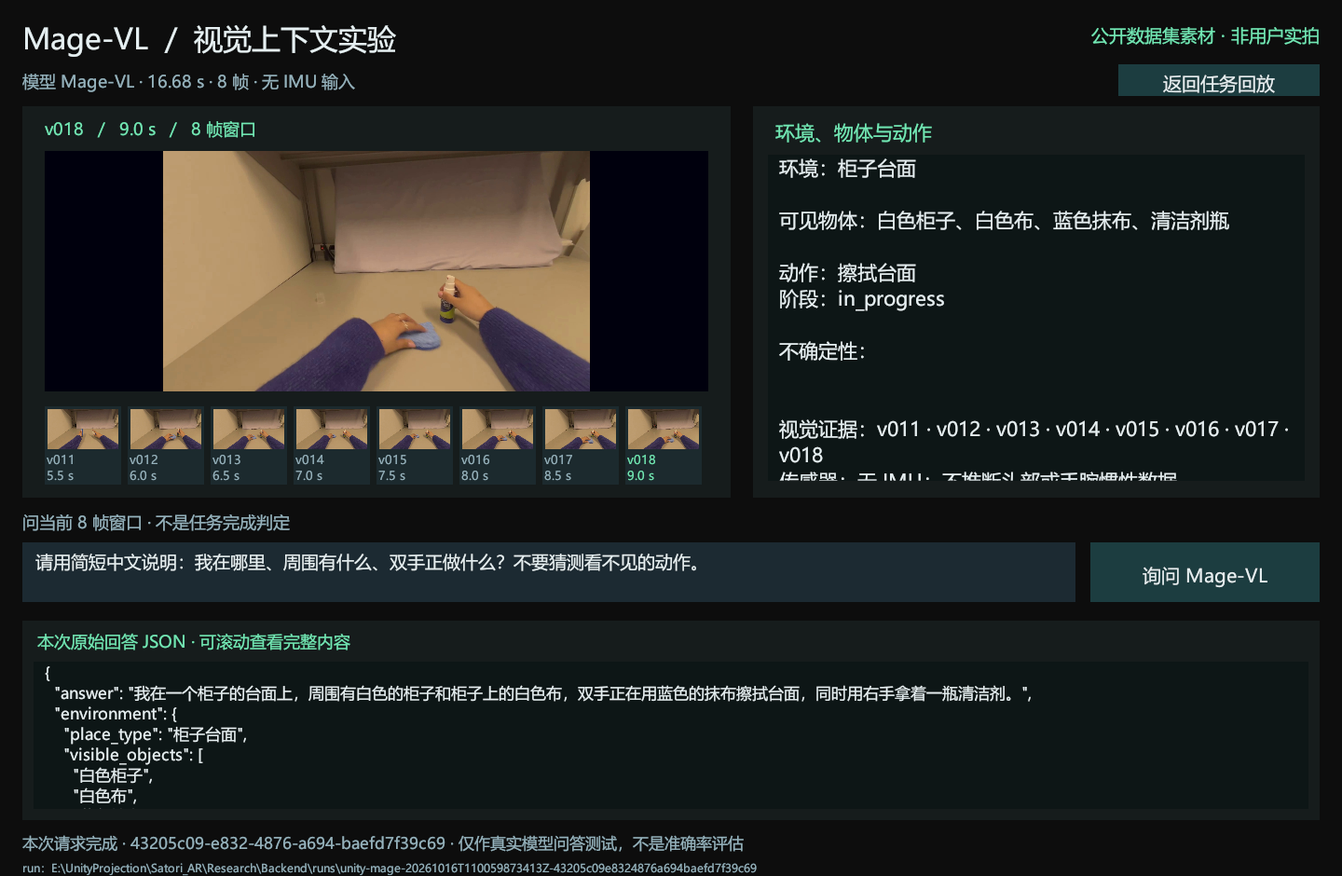
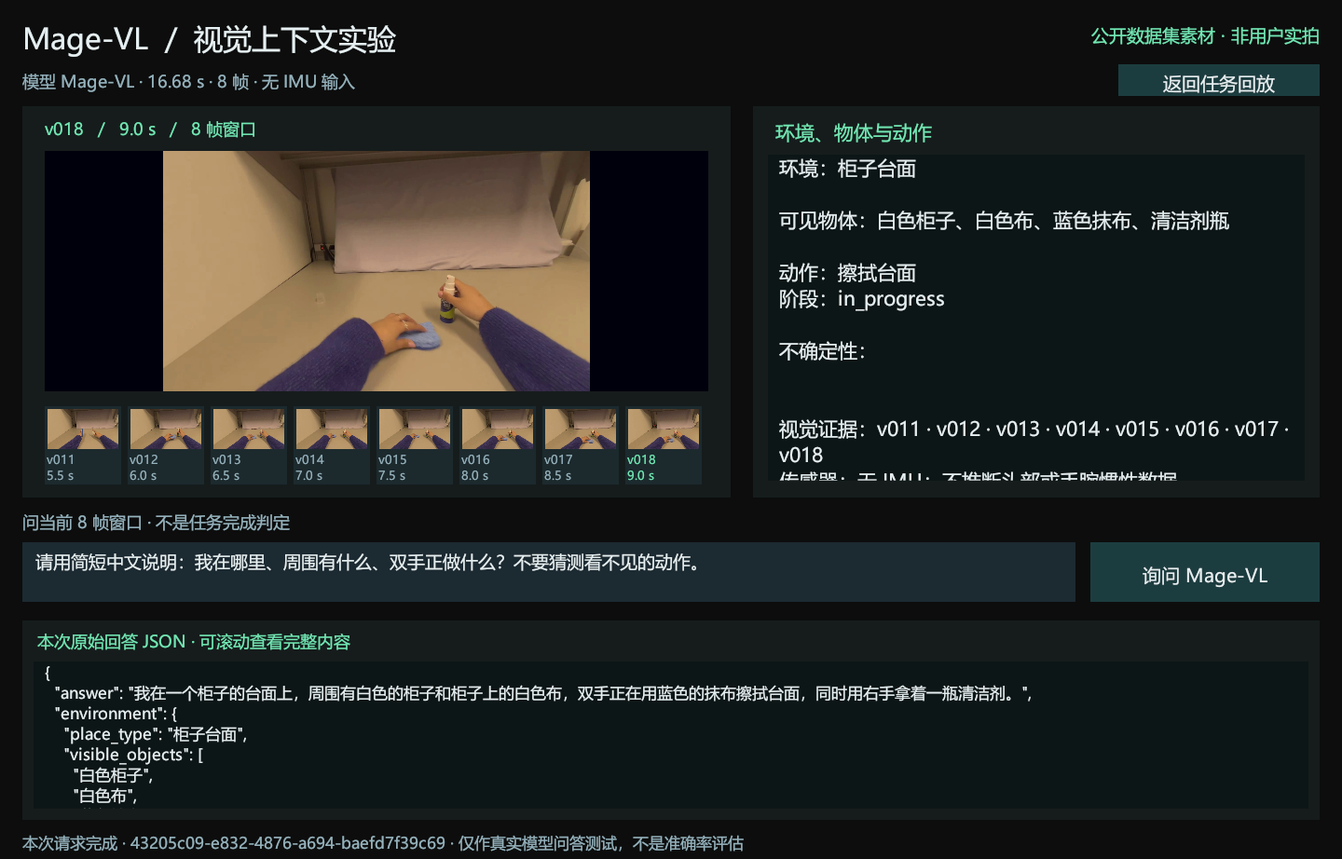
Supplement docs: input frames, QA example, chart and landing page
- docs/README.md: reading order, main findings, terms and limitations.
- experiments.md: which frames each experiment gives the models, one
  EgoTaskQA example, the look-ahead chart, and notes on GPT continuation
  runs and the offline re-parsing of Claude results.
- egotaskqa-semantic-rescore.md: adjudication was done by the main AI
  agent, not by a human; corrected count (7 items moved from wrong to
  partial, 1 kept); agreement reported on real items.
- Crop the local run path from the bottom of the Mage-VL screenshot.

diff --git a/docs/experiments.md b/docs/experiments.md
@@ -1,26 +1,26 @@
 # Satori 复现与模型评测实验简报
 
-日期：2026年10月18日（10月20日补充任务问答语义重评分）
+日期：2026年10月18日（10月20日补充输入说明、问答示例和语义重评分）
 
 本阶段围绕“理解用户所处环境、正在做什么、下一步可能做什么”开展实验。已搭建 Satori 方法原型并接入 Unity，完成七个模型在公开第一视角数据上的对比。当前结果是：**高层任务目标识别效果较好，未来动作预测还有明显下降；任务问答按意思评分最高约37%，涉及多人互动和反事实推理的问题仍然很弱。**
 
 ## 1. 跑了哪些实验
 
-| 实验 | 数据与规模 | 测什么 |
-|---|---|---|
-| 任务目标识别 | GTEA，28个视频、7类目标 | 根据视频观察判断用户在完成什么任务 |
-| 未来动作预测 | GTEA，32个目标事件，分别提前0、1、3秒预测，共96题 | 根据之前的画面判断接下来发生的动作 |
-| 任务相关问答 | EgoTaskQA，200题，涉及189个视频 | 回答关于人物、物体、动作和事件关系的问题 |
-| 环境与动作识别 | Charades-Ego，32段视频，每段8帧 | 识别场景和动作，比较 Mage-VL 与 GPT |
-| Satori 流程演示 | EgoDex清洁短片，6个采样时刻 | 验证环境理解、目标提议、下一步预测、进度检查和指导生成能否串起来 |
+| 实验 | 数据与规模 | 给模型看的画面 | 测什么 |
+|---|---|---|---|
+| 任务目标识别 | GTEA，28个视频、7类目标 | 整段视频均分4段，每段取中间1帧 | 根据视频观察判断用户在完成什么任务 |
+| 未来动作预测 | GTEA，32个目标事件，分别提前0、1、3秒预测，共96题 | 目标动作开始前的4帧，每秒1帧；提前1秒或3秒预测时，4帧整体再往前移1秒或3秒 | 根据之前的画面判断接下来发生的动作 |
+| 任务相关问答 | EgoTaskQA，200题，涉及189个视频 | 整段视频均分4段，每段取中间1帧，另附英文问题 | 回答关于人物、物体、动作和事件关系的问题 |
+| 环境与动作识别 | Charades-Ego，32段视频 | 整段视频均分8段，每段取中间1帧 | 识别场景和动作，比较 Mage-VL 与 GPT |
+| Satori 流程演示 | EgoDex清洁短片，6个采样时刻 | 每个时刻取截至当时最近的1至4帧 | 验证环境理解、目标提议、下一步预测、进度检查和指导生成能否串起来 |
 
-前三项为主实验。每题向模型提供相同的4张原始观察帧及对应问题，使用数据集标准答案评分。每个模型324题，七个模型累计2268个模型—样本结果；其中包含此前已完成的 Mage-VL 和 VideoChat3-4B 结果。
+前三项为主实验，每个模型324题，七个模型累计2268个模型—样本结果，其中包含此前已完成的 Mage-VL 和 VideoChat3-4B 结果。模型看到的是按时间顺序排列、带时间戳的关键帧，**不是连续视频流**：本实验以图片输入调用 GPT 和 Claude，统一使用关键帧后，七个模型收到的图片、时间戳和问题完全相同；VideoChat3 和 Dispider 这类视频模型也接收这同样的4帧（Dispider 把每帧重复4次，填满它的16个输入位置），但各模型内部的预处理和调用方式不同。图片保持原始分辨率，不含音频和 IMU。目标识别从7类厨房任务中选一个（如做咖啡、做奶酪三明治、泡甜茶），动作预测从73种动作中选一个（如 take (bread)、open (honey)），候选表每题相同；问答则用英文短语自由作答。标准答案和视频文件名不进入请求，评分在推理结束后用数据集标准答案进行。
 
-目标识别和动作预测报告准确率；问答报告词法归一化后的答案匹配率，即统一大小写、标点、英文冠词和空白后比较答案。失败和弃答均保留在总题数中。问答另做了一次语义重评分作为补充（见第3节），正式分数仍以词法匹配为准。
+目标识别和动作预测报告准确率。问答的正式分数是**字面匹配率**：统一大小写、标点、英文冠词和空白后，答案须与标准答案完全一致。接口失败、输出格式不合要求和弃答（模型按要求返回空答案，表示证据不足）都计入总题数、按错误计。问答另做了一次语义重评分作为补充（见第3节），正式分数仍以字面匹配为准。
 
 ## 2. 七模型主实验结果
 
-| 模型 | 目标识别，28题 | 动作预测，96题 | 任务问答，200题 |
+| 模型 | 目标识别，28题 | 动作预测，96题 | 任务问答，200题（字面匹配） |
 |---|---:|---:|---:|
 | Claude Opus 5.5 | **89.29%（25/28）** | 55.21%（53/96） | **22.50%（45/200）** |
 | GPT-6-astra | 67.86%（19/28） | **60.42%（58/96）** | 19.50%（39/200） |
@@ -32,7 +32,7 @@
 
 *GPT-5.6-sol动作预测中有53次调用失败，问答200题全部接口失败，其低分不能直接解释为模型能力弱。Dispider的输出未满足本轮评分格式要求，不能解释为视觉能力为零。Mage-VL和VideoChat3-4B也受到接口或输出格式问题影响。*
 
-模型名称按简称展示。实际主实验中 Claude 使用 high，GPT 未显式指定推理档位；因此这里比较的是各模型在当前接入配置下的表现，未完全控制内部推理预算。
+模型名称按简称展示。实际主实验中 Claude 使用 high，GPT 未显式指定推理档位；因此这里比较的是各模型在当前接入配置下的表现，未完全控制内部推理预算。GPT 名称沿用第三方接口的路由别名，底层权重未独立核验。部分 GPT 结果因限流分批续跑，只补跑从未尝试过的题目，已尝试的结果原样保留。Claude 的原始采集脚本曾把309个合法回答误判为失败，表中 Claude 结果是按原始返回事件离线重新解析得到的，没有重新调用模型。
 
 ## 3. 效果说明
 
@@ -46,9 +46,21 @@
 | GPT-6-astra | 29/32 | 18/32 | 11/32 |
 | GPT-6.1-sol | 26/32 | 15/32 | 11/32 |
 
+![三个API模型的动作预测准确率随前瞻时间下降](images/forecast-horizon.png)
+
 0秒条件的最后观察帧也早于目标动作起点。结果表明，判断紧接当前观察的动作相对容易，提前更久判断用户意图仍有困难。
 
-**任务问答按字面评分明显偏低，真正的短板在多人互动和反事实推理。** 按字面匹配，最高分为Claude的22.50%，而所有题固定回答“no”的简单基线就有18%；Claude在68道是非题中答对43题，在132道查询题中仅答对2题。逐题检查发现，查询题的标准答案使用数据集内部标签词，例如 `bottle-water`、`watermelon1`、`poweredness`、`Turn off TV with remote`，模型回答“water bottle”“turned off the TV using the remote control”这类意思正确的答案也被判错。为此补充了一次语义重评分：
+**任务问答按字面评分明显偏低，真正的短板在多人互动和反事实推理。** 按字面匹配，最高分为Claude的22.50%，而所有题固定回答“no”的简单基线就有18%；Claude在68道是非题中答对43题，在132道查询题中仅答对2题。逐题检查发现，查询题的标准答案使用数据集内部标签词，例如 `bottle-water`、`watermelon1`、`poweredness`，意思正确的自由作答也会被判错。下面是一道真实题目（引自 EgoTaskQA 公开数据）：
+
+| 项目 | 内容 |
+|---|---|
+| 画面 | 4张客厅关键帧：前3帧电视开着，第3帧画面下方能看到一只手，第4帧电视已关 |
+| 问题 | How did the person changed the poweredness of the last object that has status change in the video?（这个人是怎么改变视频中最后一个发生状态变化的物体的通电状态的？） |
+| 标准答案 | `Turn off TV with remote` |
+| Claude 回答 | `turned off the TV using the remote control` |
+| 判分 | 字面匹配判错；语义重评分判为等价 |
+
+为此补充了一次语义重评分：
 
 | 模型 | 字面匹配 | 语义等价 | 含部分正确 |
 |---|---:|---:|---:|
@@ -60,7 +72,7 @@
 
 提升全部来自查询题，例如Claude从2/132升到30/132；是非题不受影响。按意思评分后，数据集归为多人互动类的13道题（多数问“另一个人在做什么”），三个API模型仍全部答错；40道反事实题中，Claude也只从11题升到12题。这两类才是当前真正的短板。四帧观察可能缺少关键证据，但还不能把低分全部归因于帧数。
 
-语义重评分由三个独立的Claude Haiku 5.5判分代理盲评（看不到模型名称），只比较答案文字的含义、不看视频，按多数票定标签。三票完全一致的占93%（Fleiss κ 0.86），40个故意配错的对照答案无一被判为正确；之后又做了正反两向的复核和人工裁决。这是看到结果后追加的补充分析，没有人工双人标注，也不能与原论文按固定答案词表分类的分数直接比较。
+语义重评分由三个独立的Claude Haiku 5.5判分代理盲评（看不到模型名称），只比较答案文字的含义、不看视频，按多数票定标签。真实答案中三票完全一致的占92%（Fleiss κ 0.86），40个故意配错的对照答案无一被判为正确；之后又做了正反两向的复核，复核分歧、标签不一致和抽查发现的13项由主控 AI（主会话中的 Claude Opus 5.5，不是人工）按细则裁决。这是看到结果后追加的补充分析，全程没有人工标注，也不能与原论文按固定答案词表分类的分数直接比较。
 
 **当前本地模型配置整体落后于表现较好的API模型。** Mage-VL和VideoChat3-4B的动作预测、任务问答分数较低。除了理解能力，输入适配和结构化输出稳定性也需要改进；Dispider本次尚未形成可用的评分输出。
 

diff --git a/docs/egotaskqa-semantic-rescore.md b/docs/egotaskqa-semantic-rescore.md
@@ -1,21 +1,21 @@
 # EgoTaskQA 任务问答语义重评分
 
-日期：2026年10月20日。这是对七模型主实验中 EgoTaskQA 200 题的补充分析，**正式分数仍是词法匹配分**。没有重新调用被评测模型，也没有改动原始回答、标准答案或已有分数。
+日期：2026年10月20日。这是对七模型主实验中 EgoTaskQA 200 题的补充分析，**正式分数仍是字面匹配分**。没有重新调用被评测模型，也没有改动原始回答、标准答案或已有分数。
 
 ## 为什么要补这一项
 
-EgoTaskQA 的查询题标准答案使用数据集内部的标签词：对象带实例编号或连字符（`watermelon1`、`bottle-water`、`juicer-lid`），属性用专门名称（`poweredness`、`openess`、`wateredness`），动作写成固定格式（`Turn off TV with remote`、`Put bowl to microwave`）。主实验要求模型用简短英文自由作答，再按词法归一化后逐字比较，因此“water bottle”“turned off the TV using the remote control”这类意思正确的答案也会被判错。原论文的做法是从固定答案词表中分类，与本实验的自由作答设置不同。
+EgoTaskQA 的查询题标准答案使用数据集内部的标签词：对象带实例编号或连字符（`watermelon1`、`bottle-water`、`juicer-lid`），属性用专门名称（`poweredness`、`openess`、`wateredness`），动作写成固定格式（`Turn off TV with remote`、`Put bowl to microwave`）。主实验要求模型用简短英文自由作答，再统一大小写、标点、英文冠词和空白后逐字比较（字面匹配），因此“water bottle”“turned off the TV using the remote control”这类意思正确的答案也会被判错。原论文的做法是从固定答案词表中分类，与本实验的自由作答设置不同。
 
 ## 方法
 
 1. **确定需要判断的答案。** 五个有合格答案的模型共1000个“模型—题目”结果：
-   - 字面已判对、接口或格式失败、合法弃答，三类沿用原结果。
+   - 字面已判对、接口或格式失败、弃答（模型按要求返回空答案），三类沿用原结果。
    - 标准答案为 yes/no 且模型也只回答了相反的 yes/no 的，直接判错。
    - 其余485个答案按“题目＋归一化答案”去重为393项，交给语义判分。
 2. **盲化判分。** 判分代理只看到问题、标准答案和候选答案，看不到模型名称，也不看视频；只判断两个答案的含义是否相同，不判断答案在画面上是否成立。
 3. **三票独立判分。** 三个独立的 Claude Haiku 5.5 判分副本，各自使用不同的题目顺序和分批，每项给出 equivalent（语义等价）、partial（部分正确）或 wrong（错误），取多数票。
 4. **阴性对照。** 混入40个故意配错的答案：把另一道同语义类型题目的真实模型答案配给当前题目，预期全部判错。
-5. **对抗复核。** 怀疑者复核全部82个判对或部分对的项，专门找过宽的判定；辩护者复核全部311个判错项，专门找过严的判定。有分歧的项和同一标准答案下标签不一致的项，按细则人工裁决，并且“拿不准时取较不利的标签”。另外随机抽查40个判错项。
+5. **对抗复核。** 怀疑者复核全部82个判对或部分对的项，专门找过宽的判定；辩护者复核全部311个判错项，专门找过严的判定。有分歧的项和同一标准答案下标签不一致的项，由主控 AI（主会话中的 Claude Opus 5.5，不是人工）按细则裁决，并且“拿不准时取较不利的标签”。主控另外随机抽查40个判错项。
 6. **独立复算。** 用另一段代码，从原始回答和原始投票重新计算全部分数，结果一致。
 
 判分细则、判分项和分批在判分开始前冻结。
@@ -34,7 +34,7 @@ GPT-5.6-sol（200题全部接口失败）和 Dispider（没有合格输出）没
 
 **提升全部来自查询题。** 132道查询题中，Claude 从2题升到30题，GPT-6-astra 从3题升到23题，GPT-6.1-sol 从3题升到21题；68道是非题的结果不变。
 
-**按题目类型拆分**（三个数字依次为：字面匹配 / 语义等价 / 题数）：
+**按题目类型拆分**（三个数字依次为：字面匹配 / 语义等价 / 题数。类型取自数据集标注：多人互动、意图是题目范围，反事实、解释是推理类型。多人互动只计单独标为多人互动的13题，另有30题同时标为环境与多人互动；反事实只计单独标为反事实的40题，不含同时标为预测的8题）：
 
 | 题目类型 | Claude Opus 5.5 | GPT-6-astra | GPT-6.1-sol |
 |---|---|---|---|
@@ -49,16 +49,16 @@ GPT-5.6-sol（200题全部接口失败）和 Dispider（没有合格输出）没
 
 | 检查 | 结果 |
 |---|---|
-| 三票完全一致 | 93.1%，Fleiss κ = 0.858；393项都有多数票 |
+| 三票完全一致 | 393个真实项中92.4%，Fleiss κ = 0.855（连同40个对照共433项时为93.1%，κ = 0.858）；393项都有多数票 |
 | 40个阴性对照 | 多数票0个判对或部分对；单票也没有 |
 | 对抗复核分歧 | 393项中7项 |
-| 人工裁决 | 13项：4项从语义等价降为部分正确，1项从部分正确降为错误，8项从错误升为部分正确（后者只影响“含部分正确”一列） |
-| 判错项随机抽查 | 40项中38项确认错误，2项改为部分正确 |
+| 主控 AI 裁决 | 13项：4项从语义等价降为部分正确，1项从部分正确降为错误，7项从错误升为部分正确（只影响“含部分正确”一列），另有1项复核后维持部分正确 |
+| 主控随机抽查判错项 | 40项中38项确认错误，2项改为部分正确 |
 
 ## 局限
 
 - 这是看到结果后追加的补充分析，细则中的对象和属性同义词示例有一部分来自对已有答案的阅读。
-- 判分模型只比较文字，不看视频；没有人工双人标注。
+- 判分、复核和裁决都由 AI 完成，只比较文字、不看视频；全程没有人工标注。
 - 阴性对照多为明显不相关的答案，比真实的近似错误更容易识别，假阳性率可能被低估。
 - “部分正确”的边界有主观性，所以主结论使用“语义等价”一列。
 - 输入仍是每题4张稀疏帧；本结果不能与原论文按答案词表分类的准确率直接比较。

diff --git a/README.md b/README.md
@@ -2,7 +2,7 @@
 
 基于 Satori 思路的第一视角环境与任务理解研究原型，包含 **Unity 回放客户端、Python 方法后端、公开数据评测工具**。
 
-当前已实现多帧观察、目标提议、下一步预测、进度检查、文字指导与缓存。工程正在向 Rokid 场景推进，尚未完成眼镜实时相机、语音和 IMU 接入，也尚未验证完整任务交互效果。
+当前已实现多帧观察、目标提议、下一步预测、进度检查、文字指导与缓存。工程正在向 Rokid 场景推进；本仓库尚未包含眼镜实时相机、语音和 IMU 接入，也尚未验证完整任务交互效果。
 
 ## Unity 运行界面
 
@@ -28,17 +28,17 @@
 
 | 实验 | 数据与规模 | 输入 | 评价内容 |
 |---|---|---|---|
-| 任务目标识别 | GTEA，28个视频、7类目标 | 每个完整视频取4帧 | 用户在完成什么任务，Top-1准确率 |
-| 未来动作预测 | GTEA，32个目标事件，0/1/3秒前瞻，共96题 | 每题4帧，最后观察早于目标动作起点 | 接下来发生什么动作，Top-1准确率 |
-| 任务相关问答 | EgoTaskQA，200题、189个视频 | 每题4帧和原始问题 | 人物、物体、动作与关系，答案词法匹配率（另补充语义重评分） |
-| 环境与动作识别 | Charades-Ego，32段视频 | 每段8帧 | 场景识别与动作micro-F1 |
-| Satori流程演示 | EgoDex清洁短片，6个采样时刻 | 1至4帧的历史窗口 | 环境理解、目标提议、预测、进度检查与指导生成 |
+| 任务目标识别 | GTEA，28个视频、7类目标 | 整段视频均分4段，每段取中间1帧 | 用户在完成什么任务，Top-1准确率 |
+| 未来动作预测 | GTEA，32个目标事件，0/1/3秒前瞻，共96题 | 目标动作开始前的4帧，每秒1帧，最后一帧早于动作起点 | 接下来发生什么动作，Top-1准确率 |
+| 任务相关问答 | EgoTaskQA，200题、189个视频 | 整段视频均分4段各取中间1帧，加原始问题 | 人物、物体、动作与关系，字面匹配率（另补充语义重评分） |
+| 环境与动作识别 | Charades-Ego，32段视频 | 整段视频均分8段，每段取中间1帧 | 场景识别与动作micro-F1 |
+| Satori流程演示 | EgoDex清洁短片，6个采样时刻 | 每个时刻最近的1至4帧 | 环境理解、目标提议、预测、进度检查与指导生成 |
 
-前三项为七模型主实验：每个模型324题，累计 **2268个模型—样本结果**，包含此前完成的Mage-VL与VideoChat3-4B结果。各模型使用相同的原始观察帧和问题，标准答案不进入模型请求；失败和弃答均保留在固定分母。
+前三项为七模型主实验：每个模型324题，累计 **2268个模型—样本结果**，包含此前完成的Mage-VL与VideoChat3-4B结果。各模型看到相同的关键帧（按时间顺序、带时间戳的静态图片，不是连续视频）和问题，标准答案不进入模型请求；失败和弃答均保留在固定分母。
 
 ### 七模型主实验结果
 
-| 模型 | 目标识别，28题 | 动作预测，96题 | 任务问答，200题 |
+| 模型 | 目标识别，28题 | 动作预测，96题 | 任务问答，200题（字面匹配） |
 |---|---:|---:|---:|
 | Claude Opus 5.5 | **89.29%（25/28）** | 55.21%（53/96） | **22.50%（45/200）** |
 | GPT-6-astra | 67.86%（19/28） | **60.42%（58/96）** | 19.50%（39/200） |
@@ -76,7 +76,7 @@
 | Mage-VL | 2.00%（4/200） | 4.00%（8/200） | 8.00%（16/200） |
 | VideoChat3-4B | 4.00%（8/200） | 6.00%（12/200） | 8.50%（17/200） |
 
-提升全部来自查询题（Claude从2/132升到30/132），是非题不受影响。按意思评分后，数据集归为多人互动类的13道题，三个API模型仍全部答错；40道反事实题中，Claude也只从11题升到12题。判分由三个独立的Claude Haiku 5.5代理盲评，只比较答案文字的含义，不看视频。三票完全一致的占93%（Fleiss κ 0.86），40个故意配错的对照答案无一被判为正确。这是看到结果后追加的补充分析，方法、复核与局限见 **[EgoTaskQA语义重评分](docs/egotaskqa-semantic-rescore.md)**。四帧观察可能缺少关键证据，但当前实验不能将低分全部归因于帧数。
+提升全部来自查询题（Claude从2/132升到30/132），是非题不受影响。按意思评分后，数据集归为多人互动类的13道题，三个API模型仍全部答错；40道反事实题中，Claude也只从11题升到12题。判分由三个独立的Claude Haiku 5.5代理盲评，只比较答案文字的含义，不看视频。真实答案中三票完全一致的占92%（Fleiss κ 0.86），40个故意配错的对照答案无一被判为正确。这是看到结果后追加的补充分析，方法、复核与局限见 **[EgoTaskQA语义重评分](docs/egotaskqa-semantic-rescore.md)**。四帧观察可能缺少关键证据，但当前实验不能将低分全部归因于帧数。
 
 ### Charades-Ego环境与动作识别
 
@@ -168,6 +168,7 @@ uv run python -m satori_repro ask-context --session runs/frames-001/session.json
 | `Tools/deploy` | Mage-VL、VideoChat3、Dispider与CLI适配工具 |
 | `Research/Data/README.md` | 数据准备入口与公开来源 |
 | `Research/Reference/satori-assistance` | 带原MIT许可的任务计划参考文件 |
+| `docs/README.md` | 文档导览：阅读顺序、主要结论、术语与局限 |
 | `docs/experiments.md` | 简版实验报告 |
 | `docs/egotaskqa-semantic-rescore.md` | 任务问答语义重评分的方法、可靠性检查与结果 |
 

diff --git a/docs/README.md b/docs/README.md
@@ -1,0 +1,61 @@
+# 文档导览
+
+本目录说明 Satori-Rokid 截至2026年10月20日的公开实验结果。建议按下表顺序阅读或讲解。
+
+| 顺序 | 内容 | 文件 |
+|---|---|---|
+| 1 | 项目做了什么、主要结论 | 本页 |
+| 2 | 跑了哪些实验、给模型看什么、效果如何 | [实验简报](experiments.md) |
+| 3 | 任务问答为什么补做语义重评分，结果是否可信 | [EgoTaskQA语义重评分](egotaskqa-semantic-rescore.md) |
+| 4 | Unity界面截图、图表与素材来源 | [图片说明](images/README.md) |
+
+## 项目做了什么
+
+Satori（CHI 2025）研究主动式 AR 助手：系统先理解环境和用户正在做什么，再推断用户的目标和下一步，在合适的时机给出指导。论文用 Belief–Desire–Intention（BDI）组织这种用户建模。
+
+本仓库按这一思路做了独立的研究原型：
+
+- **方法后端**：多帧观察 → 环境与行为理解 → 目标提议 → 下一步预测 → 进度检查 → 文字指导与缓存。模型观察到的“完成”与用户确认的“完成”分开记录。
+- **Unity客户端**：回放观察帧、任务状态和指导，另有一个多帧环境问答页面。
+- **评测工具**：在 GTEA、EgoTaskQA、Charades-Ego 等公开第一视角数据上，用相同输入对比多个视觉语言模型。
+
+这是结构化的重新实现，不是原论文系统的完整复现。原系统还包括持续预测、并行完成检测，以及图像、语音、计时和空间提示等交互，并做了用户研究；这些尚未在本仓库中实现或验证。
+
+## 主要结论
+
+1. **高层任务目标识别较好。** Claude Opus 5.5 与 GPT-6.1-sol 都答对25/28个视频（89.29%）。所给的4帧覆盖整段视频，只能说明模型能事后概括整段任务。
+2. **预测越远越难。** 三个 API 模型在0秒条件下答对24–29/32，提前3秒只剩11–12/32。
+3. **任务问答的短板在多人互动和反事实推理。** 字面匹配最高22.50%，按语义判分 Claude 为36.50%；数据集归为多人互动类的13道题，三个 API 模型全部答错，反事实题按意思评分后几乎没有提升。
+4. **本地部署的模型明显落后。** Mage-VL 和 VideoChat3-4B 三项分数都明显低于 API 模型；Dispider 没有产生符合评分格式的输出，这不代表它的视觉能力为零。
+5. **Satori 流程能在真实短片上跑通。** 6个采样时刻得到15个阶段响应，可在 Unity 中回放；但还没有完整任务闭环和步骤级准确率。
+
+## 实验怎么做
+
+- 每题给模型4张按时间顺序排列、带时间戳的关键帧（Charades-Ego 为8帧），不是连续视频。七个模型收到的图片、时间戳和问题完全相同（各模型内部的预处理和调用方式不同），标准答案不进入请求。
+- 每题只请求一次，不重试、不修改模型回答。接口失败、输出格式不合要求和弃答都计入分母、按错误计。Claude 的结果是按原始返回离线重新解析得到的（原采集脚本误判了一批合法回答），没有重新调用模型，详见实验简报。
+- 各模型的推理档位没有统一（Claude 为 high，GPT 未指定）；GPT 名称是第三方接口的路由别名，底层权重未独立核验。
+
+## 术语
+
+| 术语 | 含义 |
+|---|---|
+| 关键帧 | 从视频中按固定规则抽取的少量静态图片，按时间顺序给模型 |
+| 字面匹配 | 统一大小写、标点、英文冠词和空白后，答案与标准答案完全一致；任务问答的正式分数 |
+| 语义等价 | 判分代理认为与标准答案意思相同；补充分析，不替代正式分数 |
+| 弃答 | 模型按要求返回空答案，表示证据不足；计入分母、按错误计 |
+| 前瞻时间 | 要预测的动作在观察截止后约多少秒开始（0、1、3秒） |
+| micro-F1 | 把所有视频的动作识别结果合在一起计算的精确率与召回率的调和平均 |
+| Fleiss κ | 多名判分者之间的一致程度，1表示完全一致，0表示与随机一致相当 |
+
+## 局限
+
+- 只在公开数据上做模块评测，评测协议没有完全对齐原论文：GTEA 按原始标注实测为73种动作（原论文为71类、按被试留一划分），EgoTaskQA 的200题是重新抽样，不是原论文所用题目。结果不是官方榜单成绩。
+- 每题只有4张稀疏帧，可能缺少答题所需的证据；目前没有标注答案证据是否出现在这些帧中。
+- 第三方接口时有限流和服务错误（例如 GPT-5.6-sol 的问答200题全部接口失败），相关低分不能直接解释为模型能力弱。
+- 尚无完整任务交互闭环、提示时机评估和用户研究。
+
+## 下一步
+
+1. 在 Unity 中补完整任务闭环：确认目标、拒绝错误建议、完成和重做步骤，并用独立标注评价整段任务。
+2. 固定模型，比较帧数、时间窗口和事件记忆，检查能否改善动作漏检和任务问答。
+3. 测量主动帮助的实际收益：提示是否准确、是否及时，以及用户要等多久。

diff --git a/docs/images/README.md b/docs/images/README.md
@@ -1,11 +1,12 @@
-# Unity运行截图说明
+# 图片说明
 
-两张图片均为2026年10月16日项目在Unity 2022.3.62f3c1中的原始运行截图，分辨率1440×940，按原文件复制，未修改界面、模型回答或数值。
+两张截图均为2026年10月16日项目在Unity 2022.3.62f3c1中的原始运行截图，原分辨率1440×940。`unity-mage-context.png` 裁掉了最底部一行本机运行路径，现为1440×922；其余内容均未修改界面、模型回答或数值。`forecast-horizon.png` 是根据本项目实验结果绘制的图表，不是截图。
 
 | 图片 | 展示内容 | 实验范围 |
 |---|---|---|
 | `unity-task-replay.png` | Satori任务状态、当前观察、文字指导、完成状态和回放时间轴 | 真实模型记录的离线回放；6个采样时刻中的第3帧，没有用户完成确认 |
 | `unity-mage-context.png` | Mage-VL八帧输入、环境与行为问答、原始JSON | 同一视频5.5至9.0秒窗口的一次真实请求；端到端16.68秒，无IMU |
+| `forecast-horizon.png` | 三个API模型在0、1、3秒前瞻下的动作预测准确率 | 七模型主实验的GTEA动作预测，每个点为答对题数/32 |
 
 ## 视频素材来源
 
